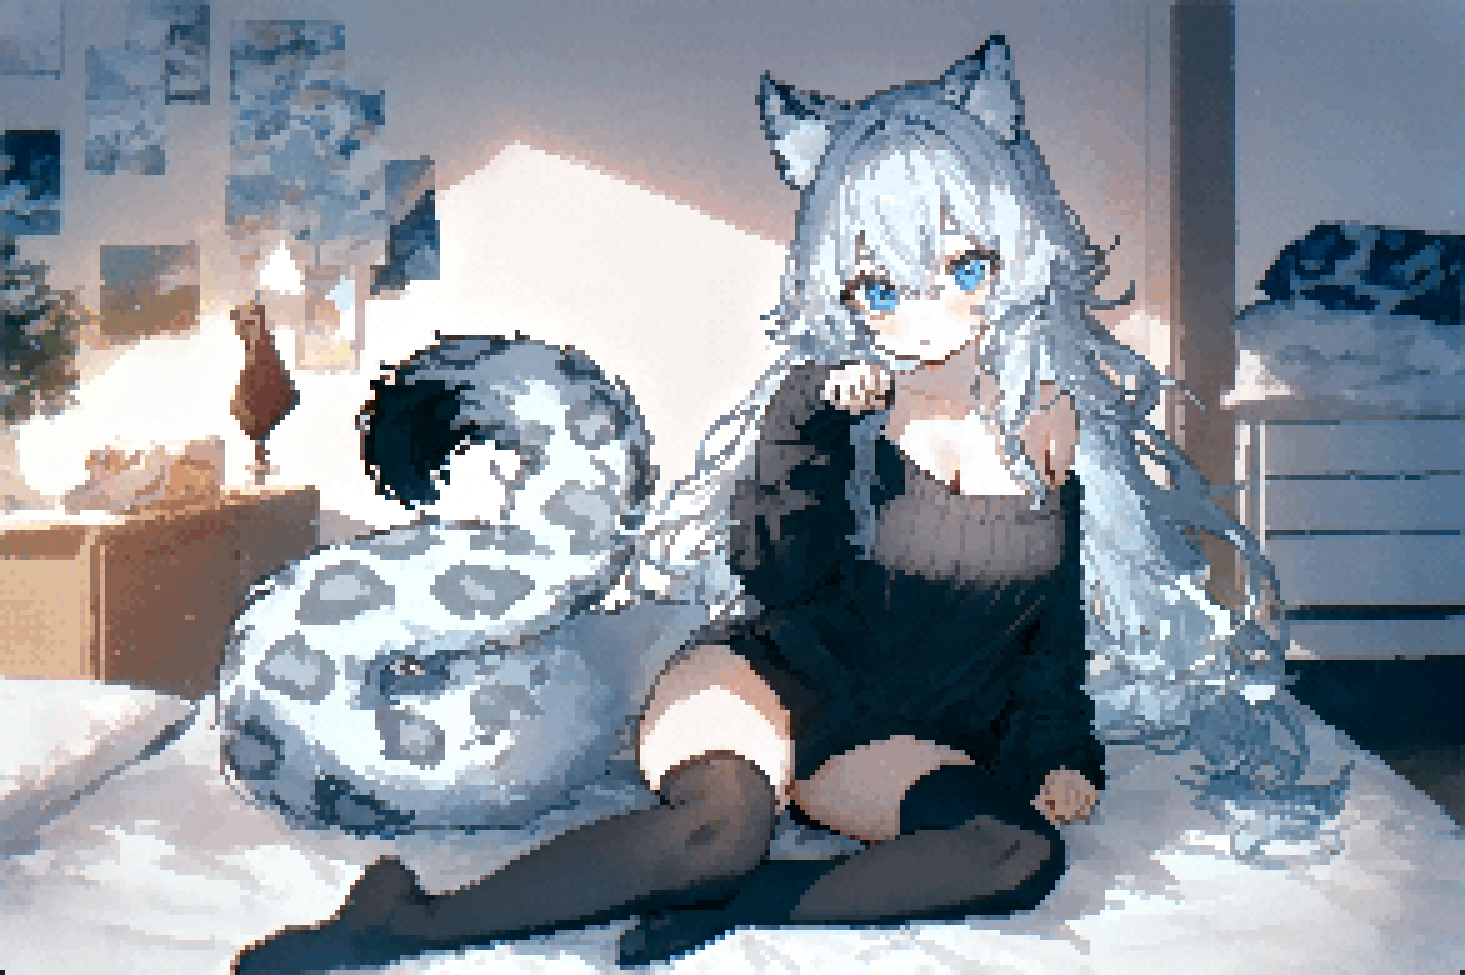
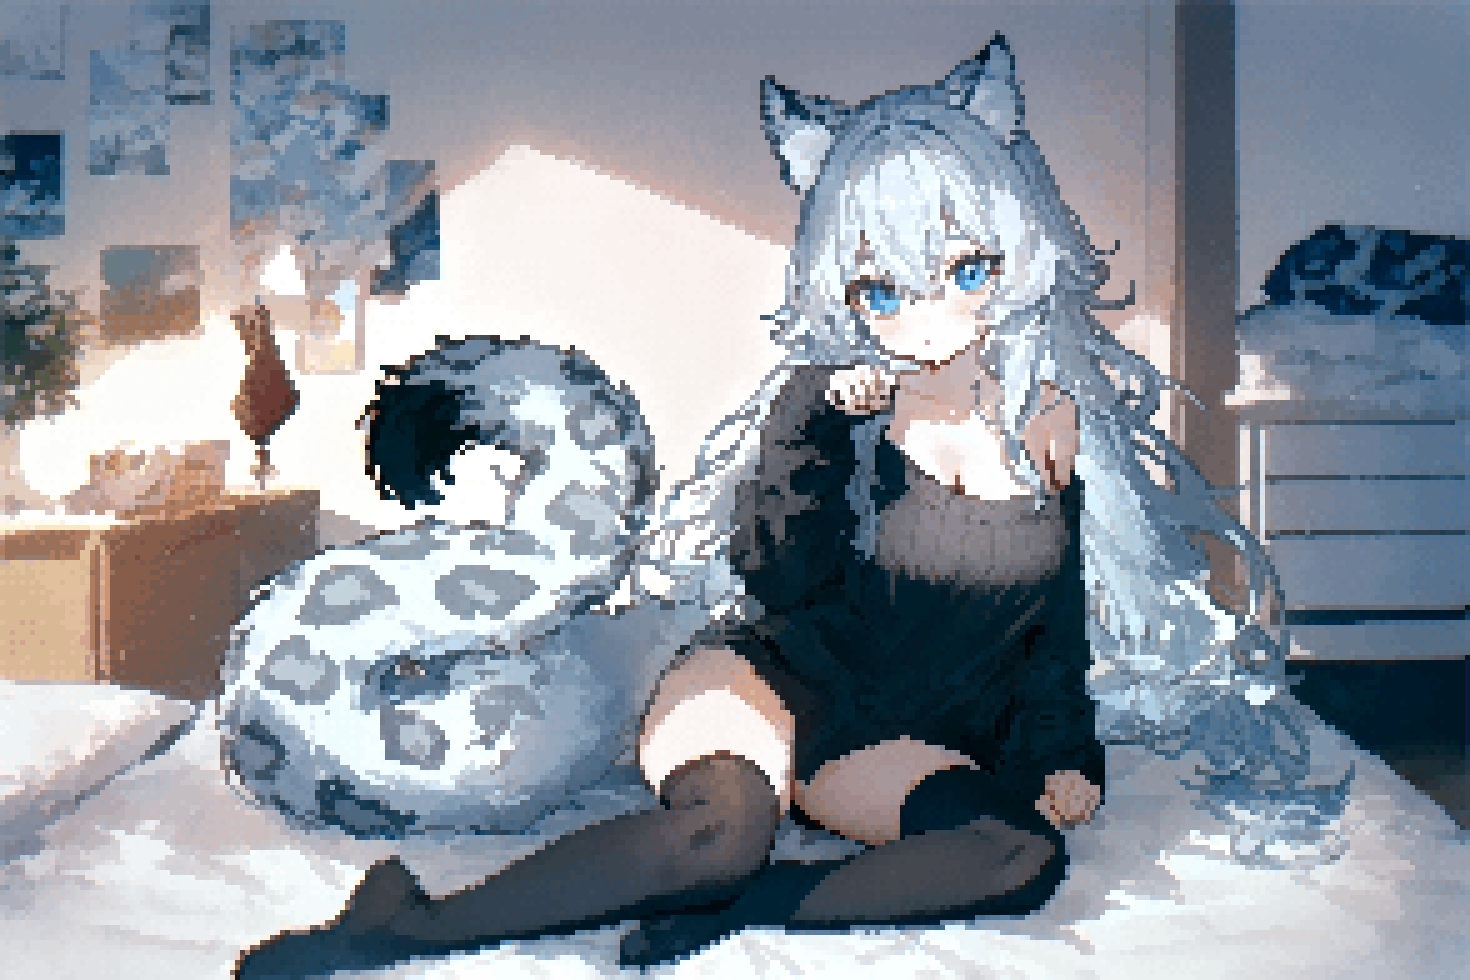
seperate resize into another function

diff --git a/demo-torch.py b/demo-torch.py
@@ -19,7 +19,7 @@ if __name__ == "__main__":
     oe_t, w = outline_expansion(img_t, 6, 6, 8, 10, 3)
     oe = Image.fromarray(to_numpy(oe_t)[0])
     oe.save("./img/snow-leopard-oe-orig.webp", lossless=True, quality=0)
-    pixeloe_env.TORCH_COMPILE = False
+    # pixeloe_env.TORCH_COMPILE = False
 
     patch_size = 5
     target_size = 240
@@ -48,11 +48,11 @@ if __name__ == "__main__":
     )
 
     print("Start Outline Expansion test:")
-    dilate_t = dilate_cont(img_t.repeat(2, 1, 1, 1), KERNELS[thickness], 1)
+    dilate_t = dilate_cont(img_t.repeat(2, 1, 1, 1), KERNELS[thickness].to(img_t), 1)
     dilate_img = Image.fromarray(to_numpy(dilate_t)[0])
     dilate_img.save("./img/snow-leopard-dilate.webp", lossless=True, quality=0)
 
-    erode_t = erode_cont(img_t.repeat(2, 1, 1, 1), KERNELS[thickness], 1)
+    erode_t = erode_cont(img_t.repeat(2, 1, 1, 1), KERNELS[thickness].to(img_t), 1)
     erode_img = Image.fromarray(to_numpy(erode_t)[0])
     erode_img.save("./img/snow-leopard-erode.webp", lossless=True, quality=0)
 
@@ -74,8 +74,7 @@ if __name__ == "__main__":
     )
     pixel_art_t = pixelize(
         img_t.repeat(2, 1, 1, 1),  # for testing batch process
-        target_size=target_size,
-        patch_size=patch_size,
+        pixel_size=patch_size,
         thickness=thickness,
         do_color_match=False,
     )
@@ -85,8 +84,7 @@ if __name__ == "__main__":
 
     pixel_art_t = pixelize(
         img_t.repeat(2, 1, 1, 1),
-        target_size=target_size,
-        patch_size=patch_size,
+        pixel_size=patch_size,
         thickness=thickness,
         mode="k_centroid",
         do_color_match=True,
@@ -97,8 +95,7 @@ if __name__ == "__main__":
 
     pixel_art_t = pixelize(
         img_t.repeat(2, 1, 1, 1),
-        target_size=target_size,
-        patch_size=patch_size,
+        pixel_size=patch_size,
         thickness=thickness,
         do_color_match=True,
         do_quant=True,
@@ -111,8 +108,7 @@ if __name__ == "__main__":
 
     pixel_art_t = pixelize(
         img_t.repeat(2, 1, 1, 1),
-        target_size=target_size,
-        patch_size=patch_size,
+        pixel_size=patch_size,
         thickness=thickness,
         do_color_match=True,
         do_quant=True,
@@ -125,8 +121,7 @@ if __name__ == "__main__":
 
     pixel_art_t = pixelize(
         img_t.repeat(2, 1, 1, 1),
-        target_size=target_size,
-        patch_size=patch_size,
+        pixel_size=patch_size,
         thickness=thickness,
         do_color_match=True,
         do_quant=True,
@@ -146,8 +141,7 @@ if __name__ == "__main__":
     )
     pixel_art_t = pixelize(
         img_t_lg.repeat(2, 1, 1, 1),
-        target_size=lg_target_size,
-        patch_size=lg_patch_size,
+        pixel_size=lg_patch_size,
         thickness=3,
         do_color_match=True,
     )
@@ -157,8 +151,7 @@ if __name__ == "__main__":
 
     pixel_art_t = pixelize(
         img_t_lg.repeat(2, 1, 1, 1),
-        target_size=lg_target_size,
-        patch_size=lg_patch_size,
+        pixel_size=lg_patch_size,
         thickness=3,
         do_color_match=True,
         mode="k_centroid",
@@ -169,8 +162,7 @@ if __name__ == "__main__":
 
     pixel_art_t = pixelize(
         img_t_lg.repeat(2, 1, 1, 1),
-        target_size=lg_target_size,
-        patch_size=lg_patch_size,
+        pixel_size=lg_patch_size,
         thickness=3,
         do_color_match=True,
         do_quant=True,
@@ -183,8 +175,7 @@ if __name__ == "__main__":
 
     pixel_art_t = pixelize(
         img_t_lg.repeat(2, 1, 1, 1),
-        target_size=lg_target_size,
-        patch_size=lg_patch_size,
+        pixel_size=lg_patch_size,
         thickness=3,
         do_color_match=True,
         do_quant=True,
@@ -197,8 +188,7 @@ if __name__ == "__main__":
 
     pixel_art_t = pixelize(
         img_t_lg.repeat(2, 1, 1, 1),
-        target_size=lg_target_size,
-        patch_size=lg_patch_size,
+        pixel_size=lg_patch_size,
         thickness=3,
         do_color_match=True,
         do_quant=True,
@@ -209,21 +199,20 @@ if __name__ == "__main__":
     pixel_art.save("./img/snow-leopard-pixel-lg-256c-ed.webp", lossless=True, quality=0)
     print("    Error Diffusion test done")
 
-    exit()
-    N = 100
+    pixeloe_env.TORCH_COMPILE = True
+    N = 200
     print("Start speed test:")
     print(f"  {target_size=}")
     print(f"  {patch_size=}")
     print(f"  {thickness=}")
-    print(f"  {TORCH_COMPILE=}")
+    print(f"  {pixeloe_env.TORCH_COMPILE=}")
     print("  Results:")
     for bs in [1, 2, 4, 8, 16]:
         # Warmup
         for _ in range(10):
             pixelize(
                 img_t.repeat(bs, 1, 1, 1),
-                target_size=target_size,
-                patch_size=patch_size,
+                pixel_size=patch_size,
                 thickness=thickness,
                 do_color_match=False,
             )
@@ -231,8 +220,7 @@ if __name__ == "__main__":
         t = timeit(
             """pixelize(
                 img_t.repeat(bs, 1, 1, 1),
-                target_size=target_size,
-                patch_size=patch_size,
+                pixel_size=patch_size,
                 thickness=thickness,
                 do_color_match=False,
             )""",
@@ -247,24 +235,22 @@ if __name__ == "__main__":
     print(f"  {target_size=}")
     print(f"  {patch_size=}")
     print(f"  {thickness=}")
-    print(f"  {TORCH_COMPILE=}")
+    print(f"  {pixeloe_env.TORCH_COMPILE=}")
     print("  Results:")
     for bs in [1, 2, 4, 8, 16]:
         # Warmup
         for _ in range(10):
             pixelize(
                 img_t_lg.repeat(bs, 1, 1, 1),
-                target_size=target_size,
-                patch_size=patch_size,
-                thickness=thickness,
+                pixel_size=lg_patch_size,
+                thickness=lg_thickness,
                 do_color_match=False,
             )
         torch.cuda.empty_cache()
         t = timeit(
             """pixelize(
                 img_t_lg.repeat(bs, 1, 1, 1),
-                target_size=lg_target_size,
-                patch_size=lg_patch_size,
+                pixel_size=lg_patch_size,
                 thickness=lg_thickness,
                 do_color_match=False,
             )""",

diff --git a/src/pixeloe/torch/pixelize.py b/src/pixeloe/torch/pixelize.py
@@ -10,8 +10,7 @@ from .downscale.k_centroid import k_centroid_downscale_torch
 
 def pixelize(
     img_t,
-    target_size=256,
-    patch_size=6,
+    pixel_size=6,
     thickness=3,
     mode="contrast",
     do_color_match=True,
@@ -24,23 +23,32 @@ def pixelize(
         img_t: Input RGB image tensor [B,C,H,W] with range [0..1]
     """
 
+    h, w = img_t.shape[2], img_t.shape[3]
+    out_h = h // pixel_size
+    out_w = w // pixel_size
+    pad_h = pixel_size - h % pixel_size
+    pad_w = pixel_size - w % pixel_size
+    if pad_h or pad_w:
+        img_t = F.pad(
+            img_t,
+            (pad_w // 2, pad_w - pad_w // 2, pad_h // 2, pad_h - pad_h // 2),
+            mode="replicate",
+        )
+        out_h += 1
+        out_w += 1
+
     if thickness > 0:
-        expanded, _ = outline_expansion(img_t, thickness, thickness, patch_size)
+        expanded, _ = outline_expansion(img_t, thickness, thickness, pixel_size)
     else:
         expanded = img_t
 
     if do_color_match:
         expanded = match_color(expanded, img_t)
 
-    h, w = expanded.shape[2], expanded.shape[3]
-    ratio = w / h
-    out_h = int((target_size**2 / ratio) ** 0.5)
-    out_w = int(out_h * ratio)
-
     if mode == "contrast":
-        down = contrast_downscale(expanded, patch_size)
+        down = contrast_downscale(expanded, pixel_size)
     elif mode == "k_centroid":
-        down = k_centroid_downscale_torch(expanded, target_size, 2)
+        down = k_centroid_downscale_torch(expanded, pixel_size, 2)
     else:
         down = F.interpolate(expanded, size=(out_h, out_w), mode="nearest-exact")
 
@@ -52,6 +60,6 @@ def pixelize(
     else:
         down_final = down
 
-    out_pixel = F.interpolate(down_final, scale_factor=patch_size, mode="nearest-exact")
+    out_pixel = F.interpolate(down_final, scale_factor=pixel_size, mode="nearest-exact")
 
     return out_pixel

diff --git a/src/pixeloe/torch/downscale/k_centroid.py b/src/pixeloe/torch/downscale/k_centroid.py
@@ -98,7 +98,7 @@ def k_centroid_postprocess(
 
 
 # @compile_wrapper
-def k_centroid_downscale_torch(img_batch, target_size=128, centroids_k=3):
+def k_centroid_downscale_torch(img_batch, pixel_size=128, centroids_k=3):
     """
     PyTorch implementation of k-centroid downscaling, optimized for batch processing.
 
@@ -111,12 +111,8 @@ def k_centroid_downscale_torch(img_batch, target_size=128, centroids_k=3):
         torch.Tensor: batch of downscaled images (b, c, h_down, w_down).
     """
     b, c, h, w = img_batch.shape
-
-    ratio = w / h
-    height = (target_size**2 / ratio) ** 0.5
-    width = height * ratio
-    height_down = int(height)
-    width_down = int(width)
+    height_down = h // pixel_size
+    width_down = w // pixel_size
 
     patches, num_patches = k_centroid_preprocess(
         img_batch, b, c, h, w, height_down, width_down
